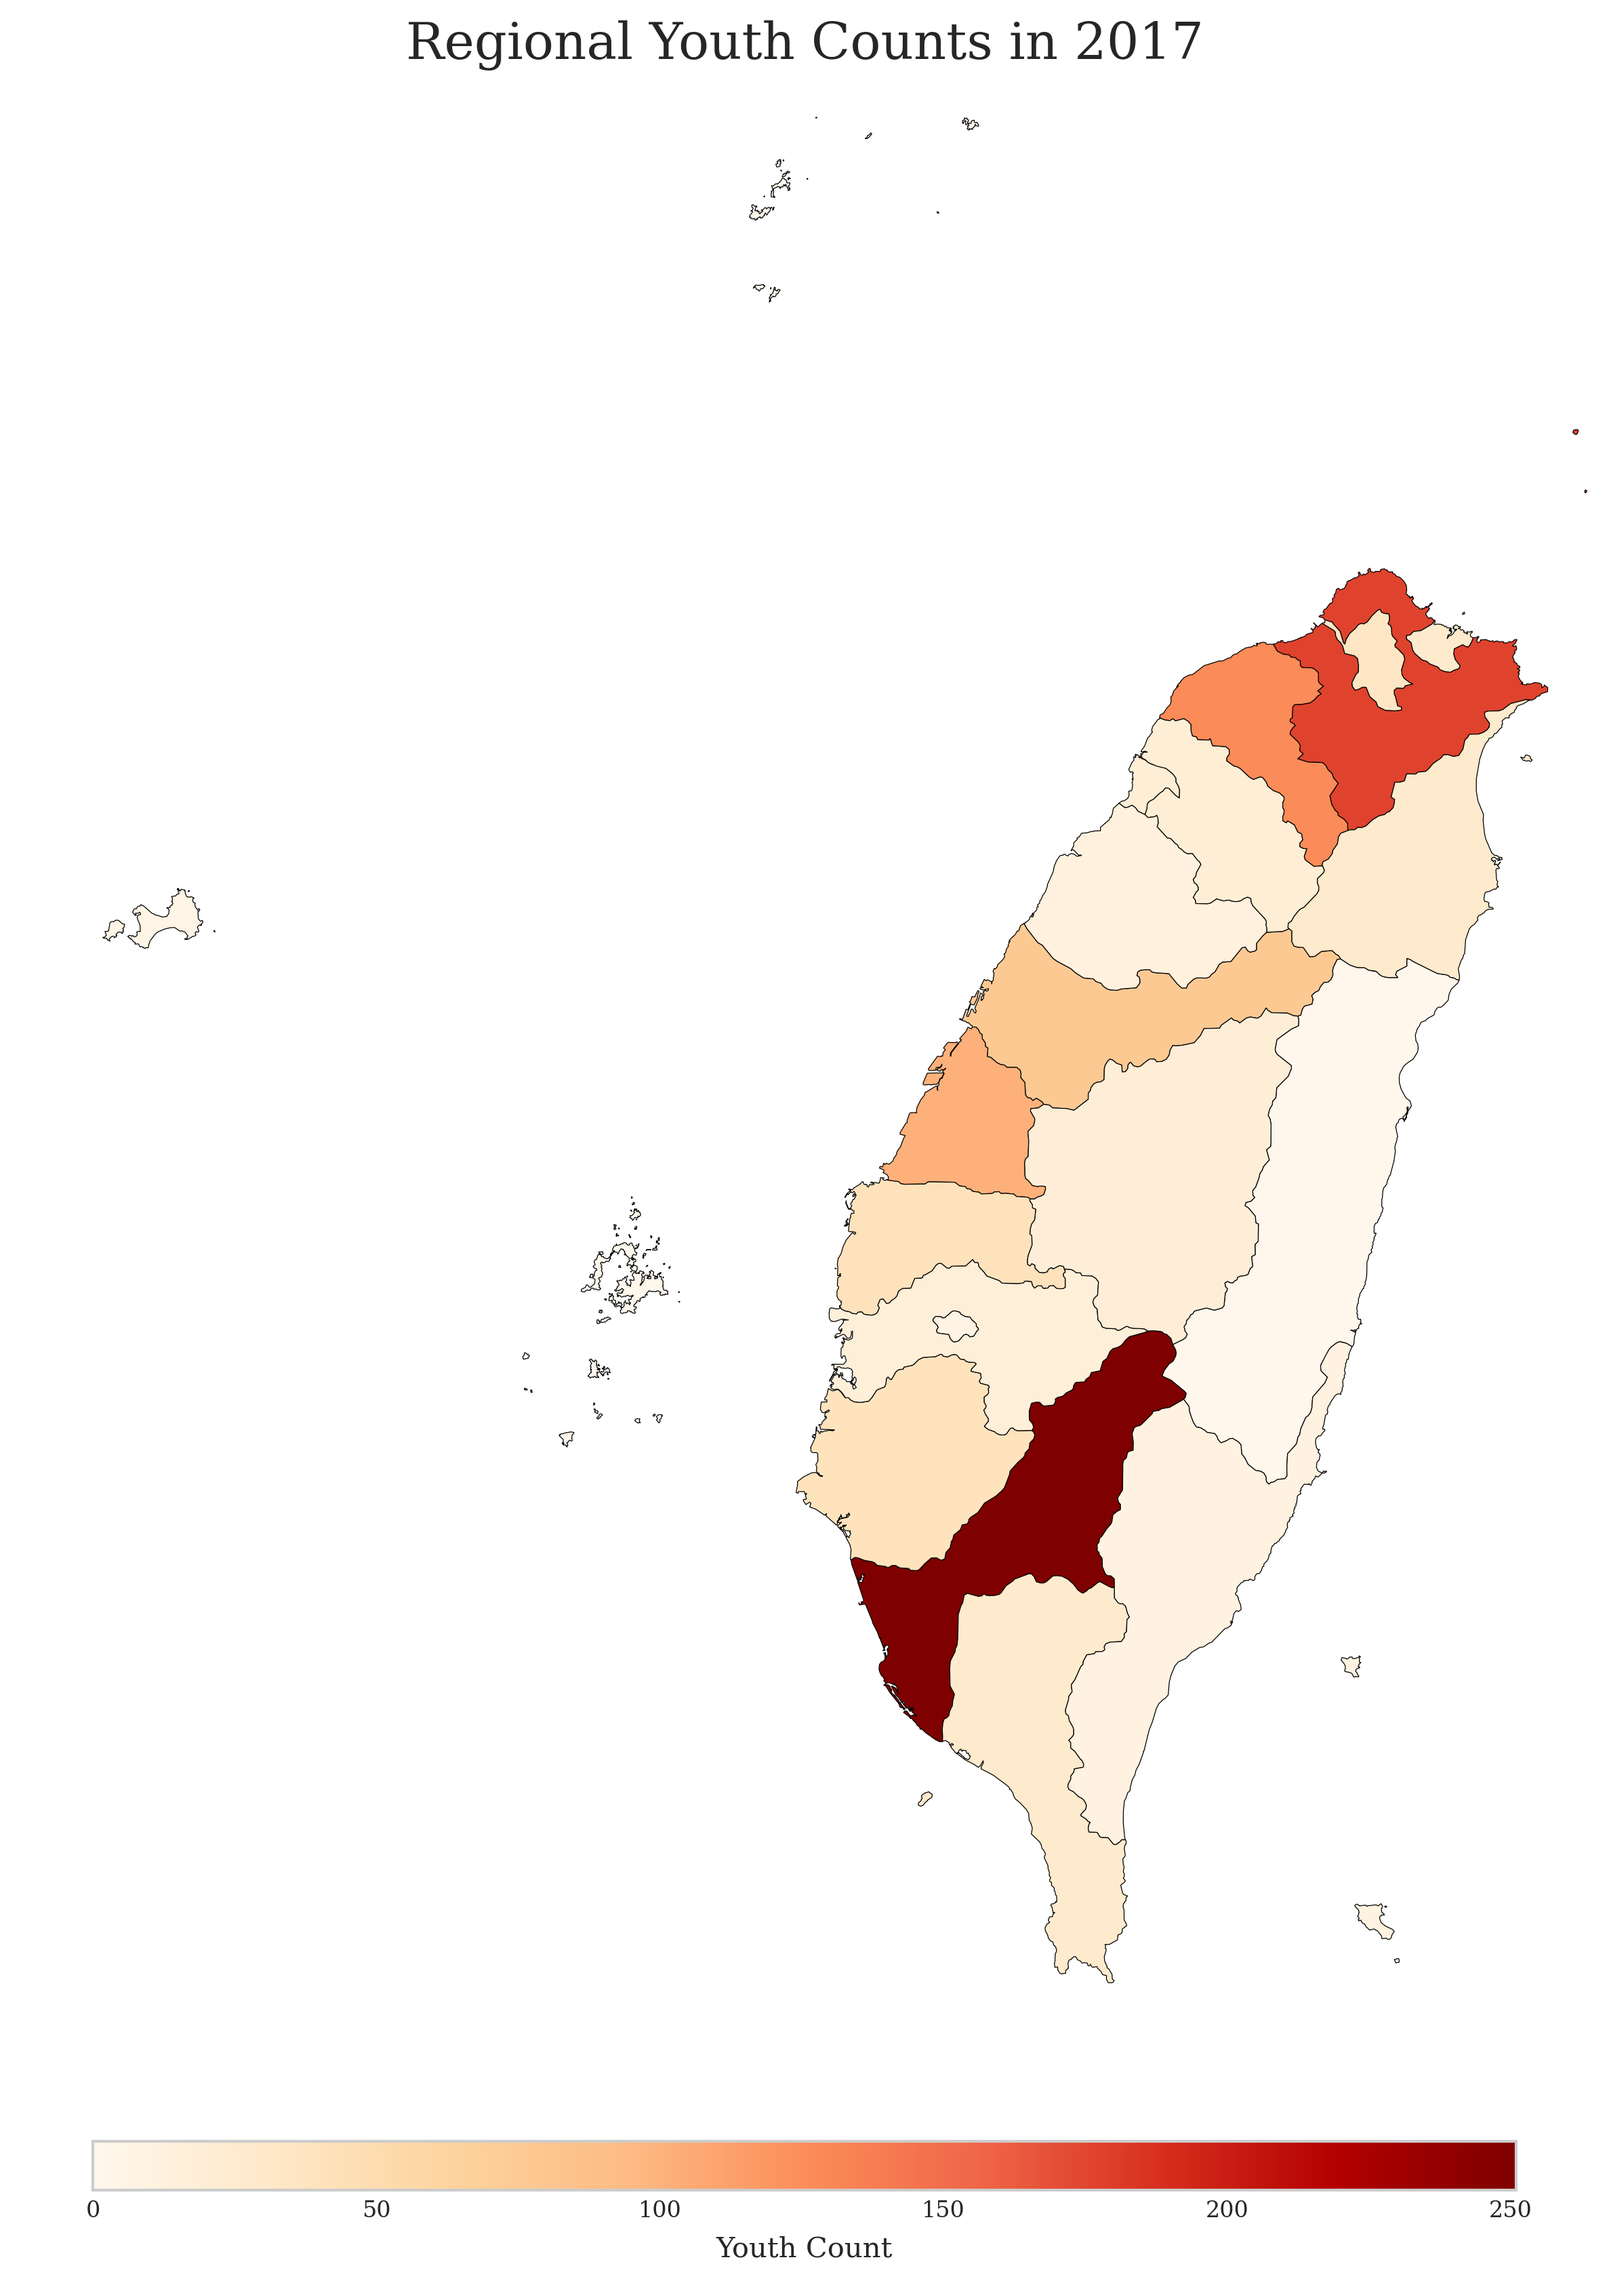
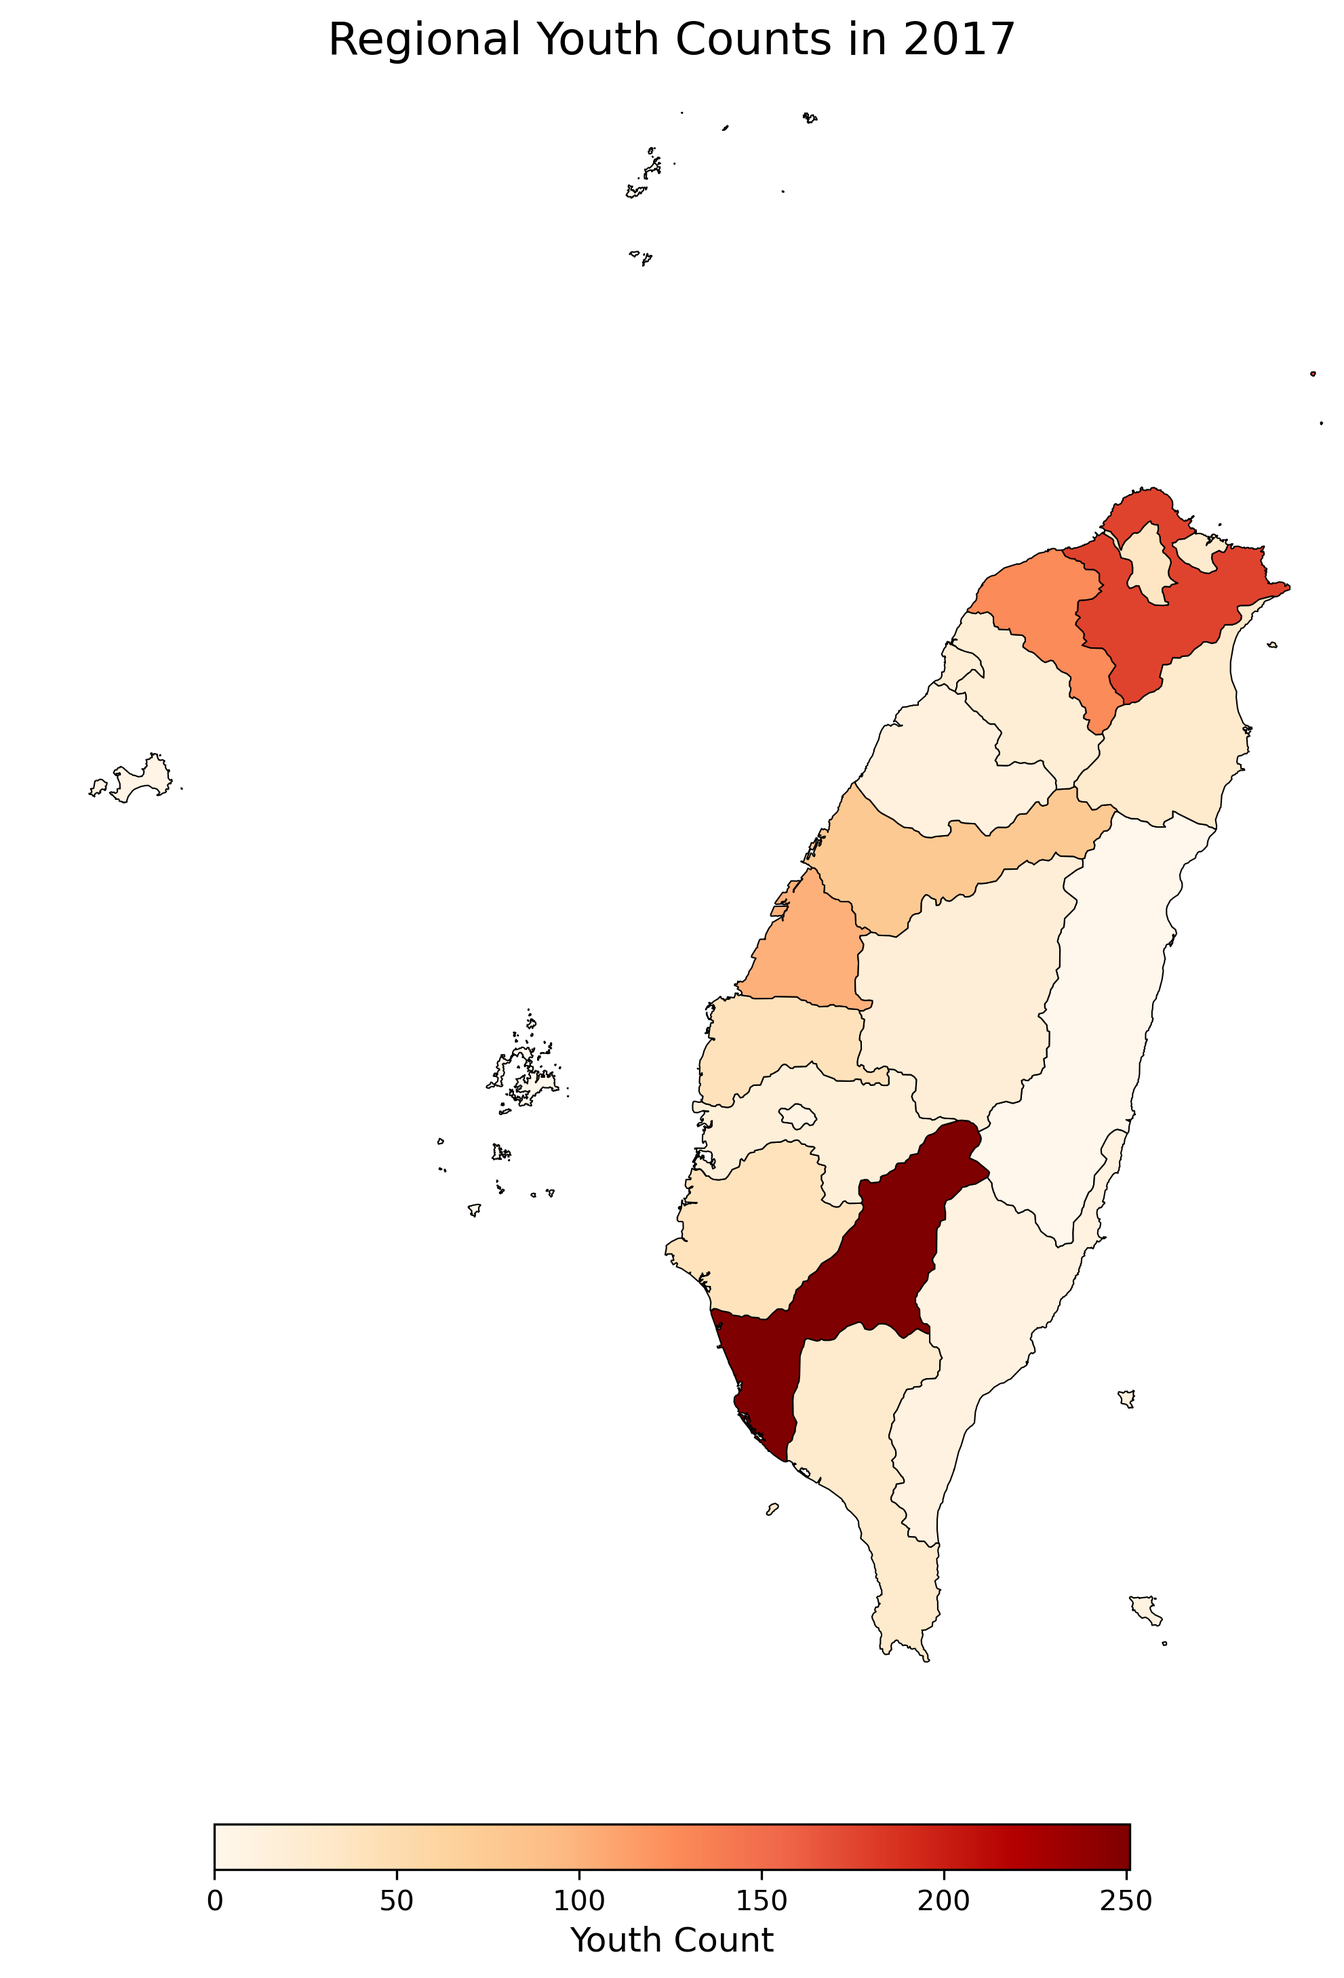
upf

diff --git a/plots.py b/plots.py
@@ -16,14 +16,15 @@ for directory in ['data', 'plots']:
         os.makedirs(directory)
 
 # Set style for publication-ready plots
-plt.style.use('seaborn-v0_8-whitegrid')
 plt.rcParams.update({
-    'font.family': 'serif',
     'font.size': 12,
-    'axes.labelsize': 14,
-    'axes.titlesize': 16,
+    'axes.labelsize': 12,
+    'axes.titlesize': 14,
     'figure.titlesize': 16,
-    'figure.dpi': 150
+    'figure.dpi': 300,
+    'legend.fontsize': 10,
+    'xtick.labelsize': 10,
+    'ytick.labelsize': 10
 })
 
 def get_taiwan_shapefile():
@@ -154,39 +155,36 @@ def load_and_clean_data(file_path):
 # Part 3: Visualization Functions
 def create_yearly_trend_plot(melted_data):
     """Create and save yearly trend plot"""
-    plt.figure(figsize=(15, 10))
+    plt.figure(figsize=(8.27, 5.83))  # A4 size in inches (width, height)
     yearly_age_data = melted_data.groupby(['Year', 'Age Group'])['Count'].sum().reset_index()
 
-    colors = ['#2ecc71', '#3498db', '#e74c3c']
     sns.lineplot(data=yearly_age_data, x='Year', y='Count', hue='Age Group',
-                marker='o', markersize=10, linewidth=3, palette=colors)
+                marker='o', markersize=6, linewidth=2.5)
 
-    plt.title('Trends in Youth Counts by Age Group (2017-2023)', pad=20)
+    plt.title('Trends in Youth Counts by Age Group (2017-2023)', pad=15)
     plt.xlabel('Year')
     plt.ylabel('Total Count')
     plt.legend(title='Age Group', bbox_to_anchor=(1.05, 1), loc='upper left')
-    plt.grid(True, alpha=0.3)
-    plt.tight_layout()
+    plt.grid(True, linestyle='--', alpha=0.7)
     plt.savefig('plots/yearly_trend_age_groups.png', bbox_inches='tight')
     plt.close()
 
 def create_gender_distribution_plot(melted_data):
     """Create and save gender distribution plot"""
-    plt.figure(figsize=(15, 10))
+    plt.figure(figsize=(8.27, 5.83))  # A4 size in inches
     yearly_gender_data = melted_data.groupby(['Year', 'Gender', 'Age Group'])['Count'].sum().reset_index()
 
-    gender_colors = {'Male': '#4169E1', 'Female': '#FF69B4'}
+    gender_colors = {'Male': '#1f77b4', 'Female': '#ff7f0e'}
     sns.lineplot(data=yearly_gender_data, x='Year', y='Count',
                 hue='Gender', style='Age Group',
                 markers=True, dashes=False,
-                palette=gender_colors, linewidth=3)
+                palette=gender_colors, linewidth=2.5)
 
-    plt.title('Gender Distribution Across Age Groups (2017-2023)', pad=20)
+    plt.title('Gender Distribution Across Age Groups (2017-2023)', pad=15)
     plt.xlabel('Year')
     plt.ylabel('Count')
     plt.legend(title='Demographics', bbox_to_anchor=(1.05, 1), loc='upper left')
-    plt.grid(True, alpha=0.3)
-    plt.tight_layout()
+    plt.grid(True, linestyle='--', alpha=0.7)
     plt.savefig('plots/gender_distribution.png', bbox_inches='tight')
     plt.close()
 
@@ -205,28 +203,17 @@ def create_regional_map(melted_data, taiwan_map, year):
         print(f"Warning: No data for year {year}")
         return
 
-    # Create figure with custom size and DPI for publication quality
-    fig = plt.figure(figsize=(10, 12), dpi=300)
-    
-    # Create main map
-    ax = fig.add_axes([0.1, 0.1, 0.8, 0.8])  # [left, bottom, width, height]
-    plt.title(f"Regional Youth Counts in {year}", fontsize=18, pad=20)
-    plt.axis('off')
-    minx, miny, maxx, maxy = taiwan_map.total_bounds
-  
-    buffer_x = (maxx - minx) * 0.001
-    buffer_y = (maxy - miny) * 0.001
-    ax.set_xlim(118 - buffer_x, maxx + buffer_x)
-    ax.set_ylim(miny+1 - buffer_y, maxy + buffer_y)
-    # Plot the map with improved aesthetics
+    # Define figure size for A4
+    fig, ax = plt.subplots(figsize=(8.27, 11.69), dpi=300)  # A4 size
+
+    # Plot the map with enhanced aesthetics
     merged.plot(
         column='Count',
         cmap='OrRd',
         ax=ax,
         edgecolor='black',
-        linewidth=0.3,
-        missing_kwds={'color': 'lightgrey'},
-        legend=False
+        linewidth=0.5,
+        missing_kwds={'color': 'lightgrey'}
     )
 
     # Add a smaller, horizontally oriented colorbar
@@ -236,13 +223,27 @@ def create_regional_map(melted_data, taiwan_map, year):
     )
     sm._A = []
     
-    # Add colorbar with custom size and position
-    cax = fig.add_axes([0.15, 0.05, 0.7, 0.02])  # [left, bottom, width, height]
-    cbar = fig.colorbar(sm, cax=cax, orientation='horizontal')
-    cbar.ax.tick_params(labelsize=8)
-    cbar.set_label('Youth Count', fontsize=10, labelpad=5)
+    cbar = fig.colorbar(sm, ax=ax, orientation='horizontal', fraction=0.025, pad=0.05)
+    cbar.ax.tick_params(labelsize=10)
+    cbar.set_label('Youth Count', fontsize=12, labelpad=3)
+
+    # Set title
+    plt.title(f"Regional Youth Counts in {year}", fontsize=16, pad=20)
+
+    # Remove axes for cleaner look
+    ax.axis('off')
+
+    # Adjust layout
+    minx, miny, maxx, maxy = taiwan_map.total_bounds
+  
+    buffer_x = (maxx - minx) * 0.001
+    buffer_y = (maxy - miny) * 0.001
+    ax.set_xlim(118 - buffer_x, maxx + buffer_x)
+    ax.set_ylim(miny+1 - buffer_y, maxy + buffer_y)
+    # Save the figure
     plt.savefig(f"plots/regional_map_{year}.png", bbox_inches='tight')
     plt.close()
+
 def create_gender_variation_map(melted_data, taiwan_map, year):
     """Create and save a publication-ready gender variation map for a specific year or aggregate"""
     # Aggregate data by Region and Gender
@@ -270,58 +271,57 @@ def create_gender_variation_map(melted_data, taiwan_map, year):
     merged['Count'] = merged['Count'].fillna(0)
     
     # Initialize the figure with two subplots side by side
-    fig, axes = plt.subplots(1, 2, figsize=(20, 10), dpi=300)
-    
-    # Define common normalization for color scale
-    norm = plt.Normalize(vmin=merged['Count'].min(), vmax=merged['Count'].max())
+    fig, axes = plt.subplots(1, 2, figsize=(11.69, 8.27), dpi=300)  # Landscape A4
     cmap = 'OrRd'
-    
+    norm = plt.Normalize(vmin=merged['Count'].min(), vmax=merged['Count'].max())
+
     # Plot Male map
     male_data = merged[merged['Gender'] == 'Male']
     male_data.plot(
         column='Count',
         cmap=cmap,
-        linewidth=0.3,
+        linewidth=0.5,
         edgecolor='black',
         ax=axes[0],
         norm=norm,
-        legend=False
+        missing_kwds={'color': 'lightgrey'}
     )
-    axes[0].set_title('Male Youth Count', fontsize=16)
+    axes[0].set_title('Male Youth Count', fontsize=14)
     axes[0].axis('off')
-    minx, miny, maxx, maxy = taiwan_map.total_bounds
-    print(minx, miny, maxx, maxy)
-    buffer_x = (maxx - minx) * 0.001
-    buffer_y = (maxy - miny) * 0.001
-    
+
     # Plot Female map
     female_data = merged[merged['Gender'] == 'Female']
     female_data.plot(
         column='Count',
         cmap=cmap,
-        linewidth=0.3,
+        linewidth=0.5,
         edgecolor='black',
         ax=axes[1],
         norm=norm,
-        legend=False
+        missing_kwds={'color': 'lightgrey'}
     )
-    axes[1].set_title('Female Youth Count', fontsize=16)
+    axes[1].set_title('Female Youth Count', fontsize=14)
     axes[1].axis('off')
-    for ax in axes:
-        ax.set_xlim(118 - buffer_x, maxx + buffer_x)
-        ax.set_ylim(miny+1 - buffer_y, maxy + buffer_y)
+    
     # Add a unified colorbar below the subplots
     sm = plt.cm.ScalarMappable(cmap=cmap, norm=norm)
     sm._A = []
-    cbar = fig.colorbar(sm, ax=axes, orientation='horizontal', fraction=0.02, pad=0.1)
-    cbar.set_label('Youth Count', fontsize=14)
+    cbar = fig.colorbar(sm, ax=axes, orientation='horizontal', fraction=0.05, pad=0.1)
+    cbar.set_label('Youth Count', fontsize=12)
     cbar.ax.tick_params(labelsize=10)
     
     # Set the main title
-    plt.suptitle(f"Gender Variation in Youth Counts - {title_suffix}", fontsize=18, y=0.95)
+    plt.suptitle(f"Gender Variation in Youth Counts - {title_suffix}", fontsize=16, y=0.95)
     
     # Adjust layout for better spacing
-    # plt.tight_layout(rect=[0, 0.03, 1, 0.95])
+    minx, miny, maxx, maxy = taiwan_map.total_bounds
+    print(minx, miny, maxx, maxy)
+    buffer_x = (maxx - minx) * 0.001
+    buffer_y = (maxy - miny) * 0.001
+    
+    for ax in axes:
+        ax.set_xlim(118 - buffer_x, maxx + buffer_x)
+        ax.set_ylim(miny+1 - buffer_y, maxy + buffer_y)
     
     # Save the figure
     if year == 'aggregate':
@@ -329,22 +329,22 @@ def create_gender_variation_map(melted_data, taiwan_map, year):
     else:
         plt.savefig(f"plots/gender_variation_map_{year}.png", bbox_inches='tight')
     plt.close()
+
 def create_regional_trends(melted_data):
     """Create and save regional trends plot"""
-    plt.figure(figsize=(20, 15))
+    plt.figure(figsize=(8.27, 11.69))  # A4 size in inches
     regional_yearly = melted_data.groupby(['Year', 'Region'])['Count'].sum().reset_index()
 
-    g = sns.FacetGrid(regional_yearly, col='Region', col_wrap=4, height=4, aspect=1.5)
+    g = sns.FacetGrid(regional_yearly, col='Region', col_wrap=4, height=2.5, aspect=1.2)
     g.map_dataframe(sns.lineplot, x='Year', y='Count', marker='o', color='#1f77b4')
     g.set_titles("{col_name}")
     g.set_axis_labels("Year", "Count")
 
     for ax in g.axes.flatten():
         ax.tick_params(axis='x', rotation=45)
-        ax.grid(True, alpha=0.3)
+        ax.grid(True, linestyle='--', alpha=0.7)
 
-    plt.suptitle('Regional Trends in Youth Counts (2017-2023)', y=1.02, fontsize=20)
-    plt.tight_layout()
+    plt.suptitle('Regional Trends in Youth Counts (2017-2023)', y=1.02, fontsize=18)
     plt.savefig('plots/regional_trends.png', bbox_inches='tight')
     plt.close()
 
@@ -365,7 +365,7 @@ def main():
     print("Preparing Taiwan map...")
     taiwan_map = get_taiwan_shapefile()
 
-    # Optional: Analyze mapping issues
+    # Analyze mapping issues
     name_mapping = create_region_mapping()
     analyze_mapping_issues(data, taiwan_map, name_mapping)
 
@@ -385,6 +385,7 @@ def main():
     print("Creating aggregate gender variation map...")
     create_gender_variation_map(melted_data, taiwan_map, 'aggregate')
 
+    # Create regional trends
     create_regional_trends(melted_data)
 
     # Create summary statistics
@@ -392,5 +393,6 @@ def main():
     summary_stats.to_csv('data/summary_statistics.csv')
 
     print("All visualizations have been generated and saved!")
+
 if __name__ == "__main__":
     main()
